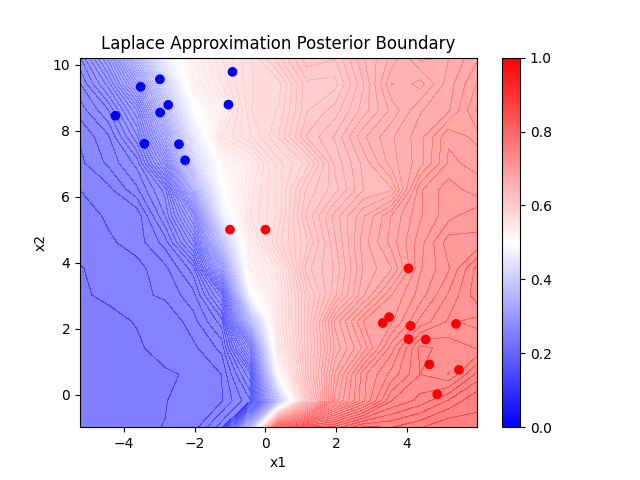
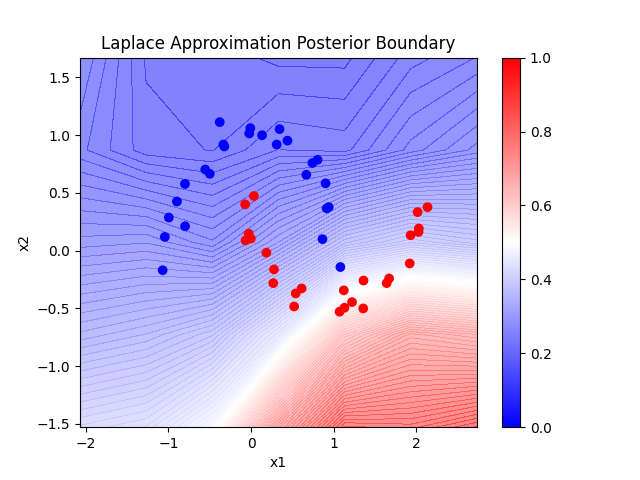
updated cov matrix formulation

diff --git a/Kalash/testing.py b/Kalash/testing.py
@@ -8,18 +8,18 @@ import matplotlib.pyplot as plt
 model = Neural_Network(input_size=2, hidden_layer_sizes=[8], output_size=1)
 
 # Swiss Roll
-X, y = make_blobs(n_samples=20, centers=2, n_features=2, random_state=42)
-X = torch.tensor(X).float()
-y = torch.tensor(y).float()
-X = torch.cat((X, torch.tensor([[0, 5]]).float()))
-y = torch.cat((y, torch.tensor([1]).float()))
-X = torch.cat((X, torch.tensor([[-1, 5]]).float()))
-y = torch.cat((y, torch.tensor([1]).float()))
+# X, y = make_blobs(n_samples=20, centers=2, n_features=2, random_state=42)
+# X = torch.tensor(X).float()
+# y = torch.tensor(y).float()
+# X = torch.cat((X, torch.tensor([[0, 5]]).float()))
+# y = torch.cat((y, torch.tensor([1]).float()))
+# X = torch.cat((X, torch.tensor([[-1, 5]]).float()))
+# y = torch.cat((y, torch.tensor([1]).float()))
 
-X_del = torch.tensor([[0, 5]]).float()
-y_del = torch.tensor([1]).float()
-X_del = torch.cat((X_del, torch.tensor([[-1, 5]]).float()))
-y_del = torch.cat((y_del, torch.tensor([1]).float()))
+# X_del = torch.tensor([[0, 5]]).float()
+# y_del = torch.tensor([1]).float()
+# X_del = torch.cat((X_del, torch.tensor([[-1, 5]]).float()))
+# y_del = torch.cat((y_del, torch.tensor([1]).float()))
 
 
 # Circles
@@ -28,9 +28,9 @@ y_del = torch.cat((y_del, torch.tensor([1]).float()))
 # y = torch.tensor(y).float()
 
 # Moons
-# X, y = make_moons(n_samples=50, noise=0.1)
-# X = torch.tensor(X, dtype=torch.float)
-# y = torch.tensor(y).float()
+X, y = make_moons(n_samples=50, noise=0.1)
+X = torch.tensor(X, dtype=torch.float)
+y = torch.tensor(y).float()
 
 # Data of all the points with label 0
 # X0 = X[y == 0]

diff --git a/Kalash/NN_classification_sampling.py b/Kalash/NN_classification_sampling.py
@@ -133,7 +133,7 @@ class Neural_Network(nn.Module):
         # MCMC Sampling
         params_init = hamiltorch.util.flatten(model)
         print(params_init)
-        num_samples = 1000
+        num_samples = 10000
         step_size = 0.01
         num_steps_per_sample = 5
         hamiltorch.set_random_seed(123)
@@ -185,12 +185,15 @@ class Neural_Network(nn.Module):
 
         # Calculate the covariance matrix using torch.cov
         # variance = torch.var(params_hmc_stack, dim=0)
-        centered_data = params_hmc_stack - params_map
-        cov = torch.mm(centered_data.t(), centered_data) / (params_hmc_stack.size(0) - 1)
-        # params_hmc_stack = torch.stack(params_hmc)
-        # cov = torch.cov(params_hmc_stack)
+        # centered_data = params_hmc_stack - params_map
+        # cov = torch.mm(centered_data.t(), centered_data) / (params_hmc_stack.size(0) - 1)
+        params_hmc_stack = torch.stack(params_hmc)
+        params_hmc_stack_t = params_hmc_stack.t()
+        print("params_hmc_stack")
+        print(params_hmc_stack_t)
+        cov = torch.cov(params_hmc_stack_t)
         print("cov")
-        print(cov)
+        # print(cov)
         cov = cov.detach().numpy()
         cov = self.nearestPD(cov)
         cov = torch.tensor(cov)
